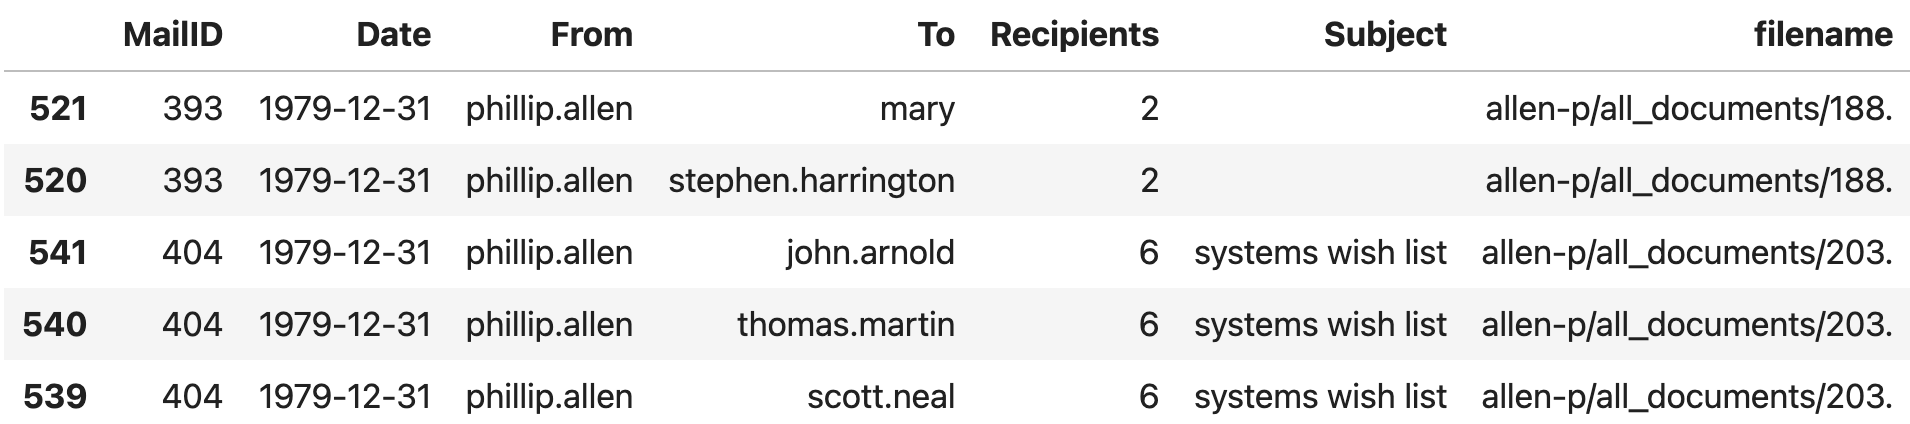
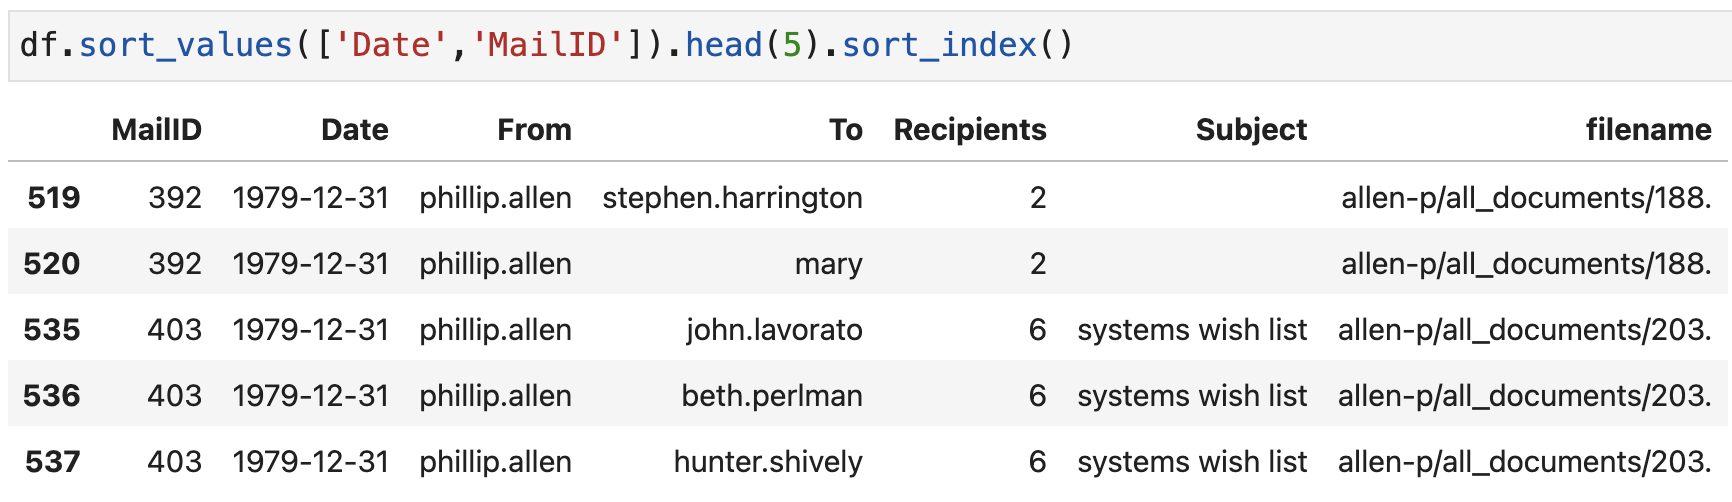
update notes

diff --git a/projects/enron.md b/projects/enron.md
@@ -100,15 +100,15 @@ My structured code is organized well. For example, my main program (at the botto
 
 You can structure your code anyway you want, but it must save the `enron.feather` file in the current working directory. That way my `test_enron.py` tests will find the data file.
 
-As another test, see [enron-5000.csv](https://github.com/parrt/msds501/blob/master/projects/enron-5000.csv) which is the first 5000 after sorting by date and then by mail ID. The code to generate it is:
+As another test, see [enron-5000.csv](https://github.com/parrt/msds501/blob/master/projects/enron-5000.csv) which is the first 5000 after sorting by date and then by mail ID and then by insertion order. The code to generate it is:
 
 ```python
-df.sort_values(['Date','MailID']).head(5000).to_csv("enron-5000.csv", index=False)
+df.sort_values(['Date','MailID']).head(5000).sort_index().to_csv("enron-5000.csv", index=False)
 ```
 
-You should compare this CSV file with what you generate. It starts like this:
+You should compare this CSV file with what you generate. Visual diff tools make it very easy to compare two text files. The file starts like this:
 
-<img src="figures/enron-5.png" width="60%">
+<img src="figures/enron-5.png" width="70%">
 
 To further help you debug, the following files show the sender and recipient unique usernames in my data frame: [enron-From-unique.csv](https://github.com/parrt/msds501/blob/master/projects/enron-From-unique.csv), [enron-To-unique.csv](https://github.com/parrt/msds501/blob/master/projects/enron-To-unique.csv).
 
